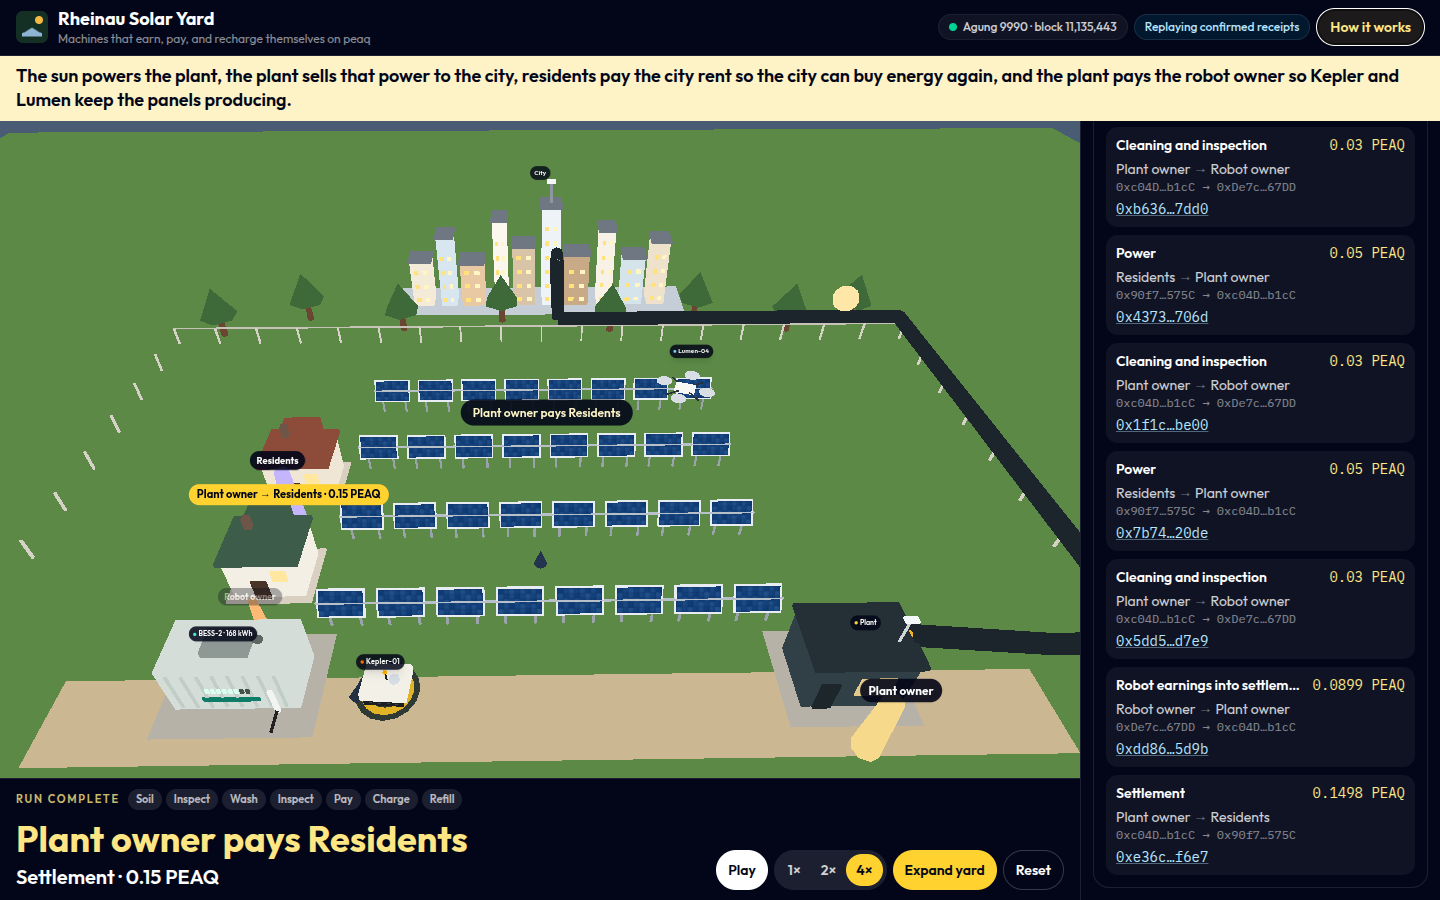
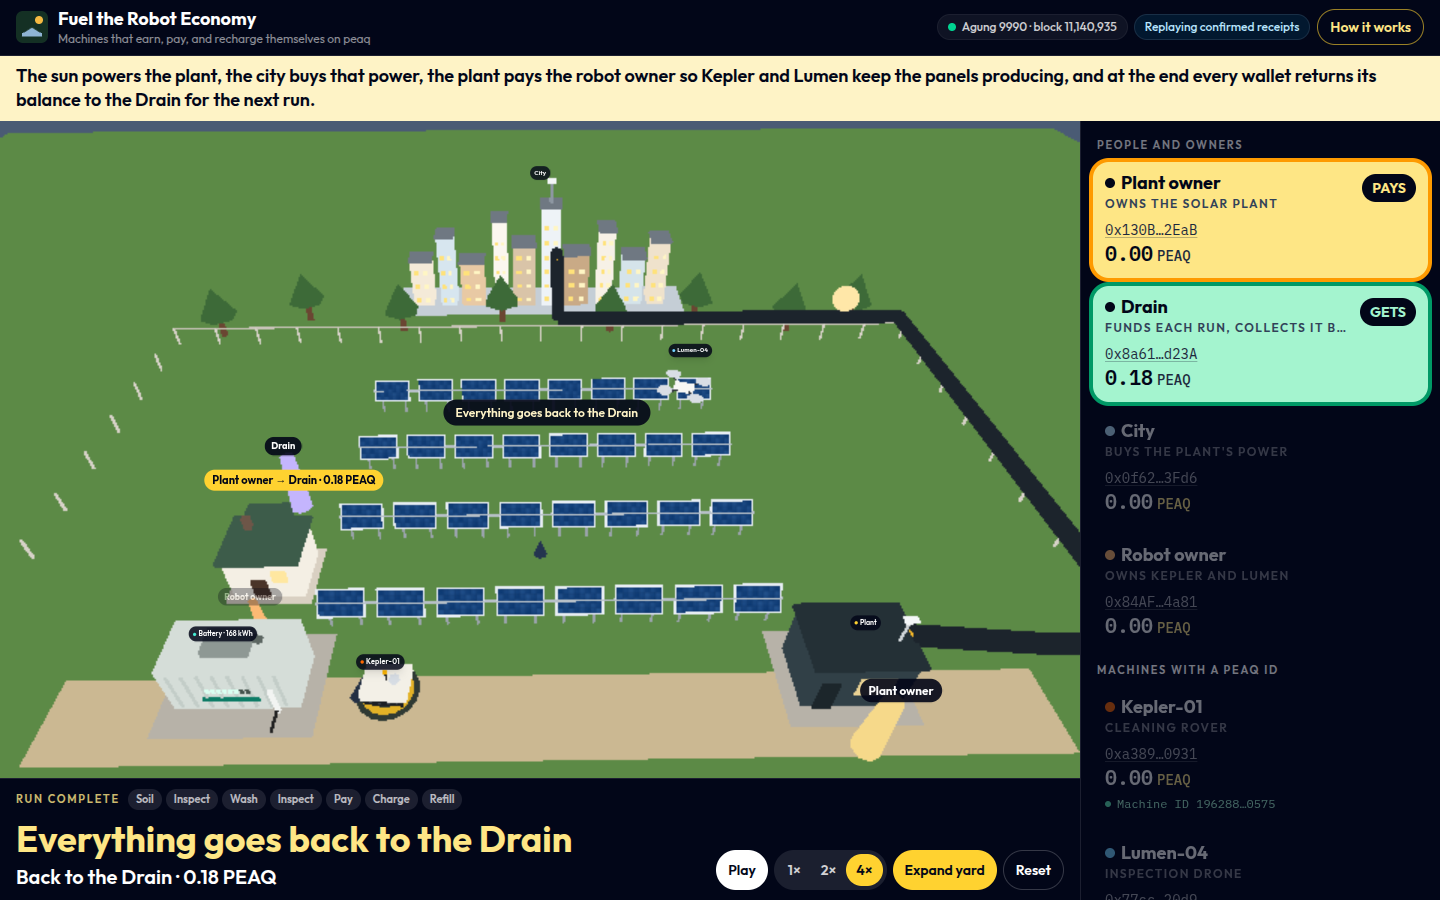
Rename the project to Fuel the Robot Economy and refresh screenshots

diff --git a/src/hud/Hud.tsx b/src/hud/Hud.tsx
@@ -59,7 +59,7 @@ function stepLine(snap: Snapshot): { title: string; detail: string } {
   if (phase?.id === "inspect") return { title: "Lumen checks the yield", detail: "The drone measures what the plant can sell." };
   if (phase?.id === "recharge") return { title: "Kepler buys energy", detail: "The rover pays the Battery so it can roll out again." };
   if (phase?.id === "refill") return { title: "The plant restocks the battery", detail: "Generation fills the pack back up." };
-  return { title: phase?.label ?? "Rheinau", detail: phase?.blurb ?? "" };
+  return { title: phase?.label ?? "Fuel the Robot Economy", detail: phase?.blurb ?? "" };
 }
 
 function emphasisClass(flow: Flow | null, id: PartyId): string {
@@ -476,7 +476,7 @@ function Header({ agung, yard, onHelp }: { agung: AgungRead; yard: YardStatus | 
       <div className="flex min-w-0 items-center gap-2.5">
         <img src="/favicon.svg" alt="" className="h-8 w-8 shrink-0" />
         <div className="min-w-0">
-          <h1 className="truncate text-base font-bold leading-tight sm:text-lg">Rheinau Solar Yard</h1>
+          <h1 className="truncate text-base font-bold leading-tight sm:text-lg">Fuel the Robot Economy</h1>
           <p className="hidden truncate text-xs text-white/55 sm:block">
             Machines that earn, pay, and recharge themselves on peaq
           </p>
@@ -585,7 +585,7 @@ function HowItWorks({ open, onClose }: { open: boolean; onClose: () => void }) {
       className="m-auto max-h-[min(88vh,760px)] w-[min(94vw,680px)] overflow-y-auto rounded-3xl bg-slate-900 p-0 text-white shadow-2xl ring-1 ring-white/10 backdrop:bg-slate-950/70 backdrop:backdrop-blur-sm"
     >
       <div className="sticky top-0 flex items-center justify-between gap-3 border-b border-white/10 bg-slate-900/95 px-5 py-4 backdrop-blur">
-        <h2 id="how-title" className="text-xl font-bold">How Rheinau works</h2>
+        <h2 id="how-title" className="text-xl font-bold">How Fuel the Robot Economy works</h2>
         <button
           type="button"
           onClick={onClose}
@@ -597,7 +597,7 @@ function HowItWorks({ open, onClose }: { open: boolean; onClose: () => void }) {
       </div>
       <div className="space-y-5 px-5 py-5 text-[15px] leading-relaxed text-white/80">
         <p>
-          A solar plant only earns when its glass is clean. In Rheinau, the machines that keep it clean are economic
+          A solar plant only earns when its glass is clean. In this yard, the machines that keep it clean are economic
           participants: each one has a peaq machine ID and a wallet, gets paid for verified work, and buys its own
           energy. No invoice and no human approval sit between the work and the payment.
         </p>

diff --git a/index.html b/index.html
@@ -5,13 +5,13 @@
     <link rel="icon" type="image/svg+xml" href="/favicon.svg" />
     <meta name="viewport" content="width=device-width, initial-scale=1.0, viewport-fit=cover" />
     <meta name="theme-color" content="#020617" />
-    <title>Rheinau Solar Yard · machines that earn and pay on peaq</title>
+    <title>Fuel the Robot Economy · machines that earn and pay on peaq</title>
     <meta
       name="description"
       content="A live 3D solar yard where a cleaning rover, an inspection drone, and a battery pack hold peaq machine IDs, get paid for verified work, and buy their own energy, settled on the peaq Agung testnet."
     />
     <meta property="og:type" content="website" />
-    <meta property="og:title" content="Rheinau Solar Yard" />
+    <meta property="og:title" content="Fuel the Robot Economy" />
     <meta
       property="og:description"
       content="Machines that earn, pay, and recharge themselves on peaq: a rover, a drone, and a battery settle a solar yard's cleaning loop on Agung."
@@ -20,7 +20,7 @@
     <meta property="og:image:width" content="1200" />
     <meta property="og:image:height" content="630" />
     <meta name="twitter:card" content="summary_large_image" />
-    <meta name="twitter:title" content="Rheinau Solar Yard" />
+    <meta name="twitter:title" content="Fuel the Robot Economy" />
     <meta name="twitter:image" content="/og-image.png" />
     <link rel="preconnect" href="https://fonts.googleapis.com" />
     <link rel="preconnect" href="https://fonts.gstatic.com" crossorigin />
@@ -30,7 +30,7 @@
     />
   </head>
   <body>
-    <noscript>Rheinau Solar Yard needs JavaScript and WebGL to render the live 3D yard.</noscript>
+    <noscript>Fuel the Robot Economy needs JavaScript and WebGL to render the live 3D yard.</noscript>
     <div id="root"></div>
     <script type="module" src="/src/main.tsx"></script>
   </body>

diff --git a/server/main.ts b/server/main.ts
@@ -81,7 +81,7 @@ async function handleApi(req: IncomingMessage, res: ServerResponse, url: URL): P
   }
   if (req.method === "POST" && url.pathname === "/api/client-log") {
     const raw = await readBody(req, 64_000);
-    appendFileSync("/tmp/rheinau-client.log", `${new Date().toISOString()} ${raw.toString("utf8")}\n`);
+    appendFileSync("/tmp/fuel-the-robot-economy-client.log", `${new Date().toISOString()} ${raw.toString("utf8")}\n`);
     sendJson(res, 200, { ok: true });
     return true;
   }
@@ -91,7 +91,7 @@ async function handleApi(req: IncomingMessage, res: ServerResponse, url: URL): P
       return true;
     }
     const webm = await readBody(req, 80_000_000);
-    const dir = "/tmp/rheinau-capture";
+    const dir = "/tmp/fuel-the-robot-economy-capture";
     mkdirSync(dir, { recursive: true });
     const source = join(dir, "canvas.webm");
     writeFileSync(source, webm);
@@ -163,5 +163,5 @@ const server = createServer((req, res) => {
 
 await startYard();
 server.listen(port, host, () => {
-  console.log(`Rheinau yard listening on http://${host}:${port}`);
+  console.log(`Fuel the Robot Economy yard server listening on http://${host}:${port}`);
 });

diff --git a/src/economy/model.ts b/src/economy/model.ts
@@ -37,7 +37,7 @@ export const INVENTORY_FULL = 168;
 export const INVENTORY_CAP = 220;
 
 export const ACTOR_META: Record<ActorId, { name: string; role: string }> = {
-  treasury: { name: "Rheinau treasury", role: "Plant machine" },
+  treasury: { name: "Plant treasury", role: "Plant machine" },
   robot: { name: "Kepler-01", role: "Cleaning rover" },
   drone: { name: "Lumen-04", role: "Inspection drone" },
   battery: { name: "Battery", role: "Sells energy to Kepler" },
@@ -47,7 +47,7 @@ export const ACTOR_ORDER: ActorId[] = ["robot", "drone", "battery"];
 
 export const PERSON_META: Record<PersonId, { name: string; role: string }> = {
   city: { name: "City", role: "Buys the plant's power" },
-  plantOwner: { name: "Plant owner", role: "Owns Rheinau" },
+  plantOwner: { name: "Plant owner", role: "Owns the solar plant" },
   robotOwner: { name: "Robot owner", role: "Owns Kepler and Lumen" },
   drain: { name: "Drain", role: "Funds each run, collects it back" },
 };

diff --git a/server/chain.ts b/server/chain.ts
@@ -51,7 +51,7 @@ type MachineSpec = {
 };
 
 const SPECS: MachineSpec[] = [
-  { actor: "treasury", name: "Rheinau treasury", machineType: "Rheinau-treasury", keyLabel: null },
+  { actor: "treasury", name: "Plant treasury", machineType: "Rheinau-treasury", keyLabel: null },
   { actor: "robot", name: "Kepler", machineType: "Kepler-01", keyLabel: "Kepler-01" },
   { actor: "drone", name: "Lumen", machineType: "Lumen-04", keyLabel: "Lumen-04" },
   { actor: "battery", name: "Battery", machineType: "BESS-2", keyLabel: "BESS-2" },
@@ -182,6 +182,7 @@ export async function startYard(): Promise<void> {
   }
 
   operator = privateKeyToAccount(key);
+  // Derivation labels predate the project name; changing them changes every derived address.
   people = {
     city: privateKeyToAccount(childKey(key, "Rheinau-city")),
     plantOwner: privateKeyToAccount(childKey(key, "Rheinau-plant-owner")),

diff --git a/src/economy/selftest.ts b/src/economy/selftest.ts
@@ -39,7 +39,7 @@ assert(
   "MachineRegistry drifted from the peaq SDK",
 );
 assert(EVENT_TYPE_ACTIVITY === BROWSER_EVENT && TRUST_SELF_REPORTED === BROWSER_TRUST, "event constants drifted");
-const lockPayload = new TextEncoder().encode("rheinau-sdk-lock");
+const lockPayload = new TextEncoder().encode("fuel-the-robot-economy-sdk-lock");
 assert(computeDataHash(lockPayload) === browserHash(lockPayload), "browser hash is not computeDataHash");
 
 function runUntil(engine: Engine, cycle: number): void {

diff --git a/src/economy/engine.ts b/src/economy/engine.ts
@@ -434,7 +434,7 @@ export class Engine {
       } else {
         this.log(
           "info",
-          "Rheinau runs three compressed days. The Drain funds the run, the city buys the power, the plant pays the robot owner, and the rover recharges.",
+          "The yard runs three compressed days. The Drain funds the run, the city buys the power, the plant pays the robot owner, and the rover recharges.",
         );
       }
       this.log(

diff --git a/scripts/verify-agung.ts b/scripts/verify-agung.ts
@@ -88,5 +88,5 @@ for (const row of REPLAY_RUN) {
   }
 }
 
-console.log(failures === 0 ? "\nAll Rheinau machine IDs and receipts check out on Agung." : `\n${failures} check(s) failed.`);
+console.log(failures === 0 ? "\nAll Fuel the Robot Economy machine IDs and receipts check out on Agung." : `\n${failures} check(s) failed.`);
 process.exit(failures === 0 ? 0 : 1);

diff --git a/docs/demo-script.md b/docs/demo-script.md
@@ -1,12 +1,12 @@
 # Demo video script and speaker notes
 
-Timed to the recorded demo (2:45, 1920×1200, 30 fps). The narrated cut uses offline Piper TTS (voice `en_US-ryan-high`). A silent cut with identical picture is available for re-dubbing. Read each block starting at its timestamp. Each block fits inside its window with room to spare, so a slightly slower human read still lands before the next cut.
+Timed to the recorded demo (2:45, 1920×1200, 30 fps). That recording predates the rename to Fuel the Robot Economy and the Drain loop: it still shows the old title, the residents' house, and the rent payment, so the picture needs a new take before the script below matches it. The narrated cut uses offline Piper TTS (voice `en_US-ryan-high`). A silent cut with identical picture is available for re-dubbing. Read each block starting at its timestamp. Each block fits inside its window with room to spare, so a slightly slower human read still lands before the next cut.
 
-Pronunciation: **peaq** = "peek", **Rheinau** = "RINE-ow", **Agung** = "AH-goong", **Lumen** = "LOO-men".
+Pronunciation: **peaq** = "peek", **Agung** = "AH-goong", **Lumen** = "LOO-men".
 
 | # | Start | Window | On screen | Say |
 | --- | --- | --- | --- | --- |
-| 1 | 0:01 | 24 s | The yard paused at dawn. Camera slowly orbits and returns. | This is Rheinau Solar Yard: a live 3D solar farm where the machines run their own economy on peaq. A cleaning rover, an inspection drone, and a battery pack each hold a peaq machine ID and a wallet. They get paid for verified work and buy their own energy, with no invoice and no human approval in the loop. |
+| 1 | 0:01 | 24 s | The yard paused at dawn. Camera slowly orbits and returns. | This is Fuel the Robot Economy: a live 3D solar farm where the machines run their own economy on peaq. A cleaning rover, an inspection drone, and a battery pack each hold a peaq machine ID and a wallet. They get paid for verified work and buy their own energy, with no invoice and no human approval in the loop. |
 | 2 | 0:25 | 13 s | Play. Caption "Dust lands on the panels", then "Lumen inspects the panels". | Each day starts with dust. It settles on the panels and output falls. Lumen, the drone, inspects the rows first and reports them dirty. Only then does Kepler, the rover, leave the dock. |
 | 3 | 0:38 | 18 s | Kepler drives the aisles with the brush down. Phase strip on "Wash". | Kepler washes every row and steers around a blocked one. Its battery drains as it works. The caption below always says what is happening, and the strip shows where we are in the day. |
 | 4 | 0:56 | 8 s | Lumen's second pass. "Recovered yield booked". | Lumen flies a second pass and hashes the recovered yield into a proof, using the same hash as the peaq SDK. |
@@ -15,7 +15,7 @@ Pronunciation: **peaq** = "peek", **Rheinau** = "RINE-ow", **Agung** = "AH-goong
 | 7 | 1:26 | 21 s | Sidebar scrolls to machine IDs and "Agung receipts". Cut to the settlement transaction on Subscan (Confirmed, Success), then back. | None of this is a mock ledger. The four machines are registered in peaq's MachineRegistry on the Agung testnet, and every payment links to its transaction. Here is the settlement transfer on the Subscan explorer, confirmed on chain. Running `npm run verify` recomputes the machine IDs with the peaq SDK and re-checks every receipt. |
 | 8 | 1:47 | 28 s | Speed 4×. Days 2 and 3 run; receipts fill in; "Run complete", every wallet → Drain. | At four times speed, the next days play out. Watch the receipts panel fill as each payment lands. At the end, the plant owner, the robot owner, and the battery send everything back to the Drain wallet that funded the run, so the next run starts from the same budget. |
 | 9 | 2:15 | 18 s | "How it works" guide opens and scrolls: Real on peaq Agung, Simulated, Controls. | The How it works guide tells a judge exactly what is real on peaq and what is simulated. The rover, the drone, and the physics are simulated in the browser. Lumen's activity event does not land yet, because the Agung EventRegistry reverts the call, so the page says so instead of faking a hash. |
-| 10 | 2:33 | 12 s | Back to the yard, run complete. | Rheinau shows the machine economy in one complete loop: machines with identities, earning for verified work and paying for their own energy, settled on peaq. Thanks for watching. |
+| 10 | 2:33 | 12 s | Back to the yard, run complete. | Fuel the Robot Economy shows the machine economy in one complete loop: machines with identities, earning for verified work and paying for their own energy, settled on peaq. Thanks for watching. |
 
 The TTS cut has about 14 s of quiet after block 8 (2:00–2:14) while the 4× run reaches the settlement on screen. When re-recording, an optional line fits there: "Three days, twelve payments, and not one invoice: each payment is released by a machine's own proof of work."
 

diff --git a/README.md b/README.md
@@ -1,16 +1,18 @@
-# Rheinau Solar Yard
+# Fuel the Robot Economy
 
 **Machines that earn, pay, and recharge themselves on peaq.**
 
-A solar plant only earns when its glass is clean. Rheinau Solar Yard is a live 3D solar farm in the browser. The machines that keep it clean are economic participants: a cleaning rover, an inspection drone, and a battery pack each hold a **peaq machine ID** and a wallet. They get paid for **verified work** and **buy their own energy**, settled on the peaq **Agung** testnet, with no invoice and no human approval in the loop.
+A solar plant only earns when its glass is clean. Fuel the Robot Economy is a live 3D solar farm in the browser. The machines that keep it clean are economic participants: a cleaning rover, an inspection drone, and a battery pack each hold a **peaq machine ID** and a wallet. They get paid for **verified work** and **buy their own energy**, settled on the peaq **Agung** testnet, with no invoice and no human approval in the loop.
 
 Built for the [Germany side track: Advance the Machine Economy with peaq](https://superteam.fun/earn/listing/build-solutions-advancing-the-machine-economy-with-peaq) (Crypto World's Fair).
+
+**Live demo:** [fuel-the-robot-economy.vercel.app](https://fuel-the-robot-economy.vercel.app). It runs in replay mode: no key, and every receipt links to a confirmed Agung transaction.
 
 ![The yard mid-cycle: 3D scene, live step caption, wallets with peaq machine IDs](docs/screenshots/yard-desktop.png)
 
 ## How it advances the Machine Economy
 
-Most "robot fleet" demos stop at telemetry. Rheinau closes the economic loop around one real job:
+Most "robot fleet" demos stop at telemetry. Fuel the Robot Economy closes the economic loop around one real job:
 
 1. **Proof of work, by a machine.** Lumen-04 (drone) inspects the array before and after the wash and hashes the recovered yield into a proof, using the same `computeDataHash` bytes as the peaq SDK.
 2. **Payment released by that proof.** The city buys the recovered power from the plant owner, and the plant owner pays the robot owner for Kepler-01's cleaning and Lumen-04's inspection.
@@ -39,7 +41,7 @@ This recomputes each machine ID with the peaq SDK, checks that MachineRegistry r
 
 | Machine | Address | MachineRegistry ID | Activation |
 | --- | --- | --- | --- |
-| Rheinau treasury (plant) | [`0x8a61…d23A`](https://agung-testnet.subscan.io/account/0x8a61248e23e04b97A0A42A87D09459573478d23A) | `33972125727311862102242550464936382332590305066238494161796118837764432459771` | [`0xec8a…1859`](https://agung-testnet.subscan.io/tx/0xec8a622a893f77ed675902751ea196e5336ad11339a0bd3fc34e50f6d33c1859) |
+| Plant treasury (machine type `Rheinau-treasury`) | [`0x8a61…d23A`](https://agung-testnet.subscan.io/account/0x8a61248e23e04b97A0A42A87D09459573478d23A) | `33972125727311862102242550464936382332590305066238494161796118837764432459771` | [`0xec8a…1859`](https://agung-testnet.subscan.io/tx/0xec8a622a893f77ed675902751ea196e5336ad11339a0bd3fc34e50f6d33c1859) |
 | Kepler-01 (rover) | [`0xa389…0931`](https://agung-testnet.subscan.io/account/0xa3893E09F5546B56B6e845ad194e28a216730931) | `1962884760408859527843867200144780974073261720970703856069487751650844150575` | [`0xde6e…b990`](https://agung-testnet.subscan.io/tx/0xde6ee8f2b2b2b6154034bb7ea763865c9616241a61484a284dabedaa0517b990) |
 | Lumen-04 (drone) | [`0x77cc…20d9`](https://agung-testnet.subscan.io/account/0x77cc0A6aeA9F14c842251aE1384E45A3F30320d9) | `70771729342491203195750444655678312409844457848436599576321158744592664857524` | [`0xd25a…b671`](https://agung-testnet.subscan.io/tx/0xd25a7b8a143b87a9ee0418d5b1370c75f902f1367f890d367535a0390030b671) |
 | Battery (machine type BESS-2) | [`0x6F8A…df5d`](https://agung-testnet.subscan.io/account/0x6F8A86803dafE766F6381F781D5003BC5aa2df5d) | `23561826428746862383207998597570184258462227245211301004858601842139846427384` | [`0xae8d…dcf5`](https://agung-testnet.subscan.io/tx/0xae8de92ad5772c5d0fb4084316917235325b0e6c5200cfe12aa2065c666edcf5) |
@@ -122,9 +124,13 @@ Every visitor's page load starts its own run, and runs share the same wallets, s
 
 ## Deploy
 
+**Static (Vercel or any CDN).** `vercel.json` builds with `npm run build` into `dist/`. No environment variables are needed. Without the yard server, the page shows the verified machine IDs and replays the confirmed run.
+
+**With the yard server (Docker).** This serves the page and `/api`, and sends new transactions when a key is mounted:
+
 ```bash
-docker build -t rheinau-solar-yard .
-docker run --rm -p 4317:4317 rheinau-solar-yard
+docker build -t fuel-the-robot-economy .
+docker run --rm -p 4317:4317 fuel-the-robot-economy
 ```
 
 Add `-e PEAQOS_PRIVATE_KEY_FILE=/run/secrets/agung.key -v /path/agung.key:/run/secrets/agung.key:ro` to enable writes. `deploy/Caddyfile` terminates HTTPS in front of port 4317.
